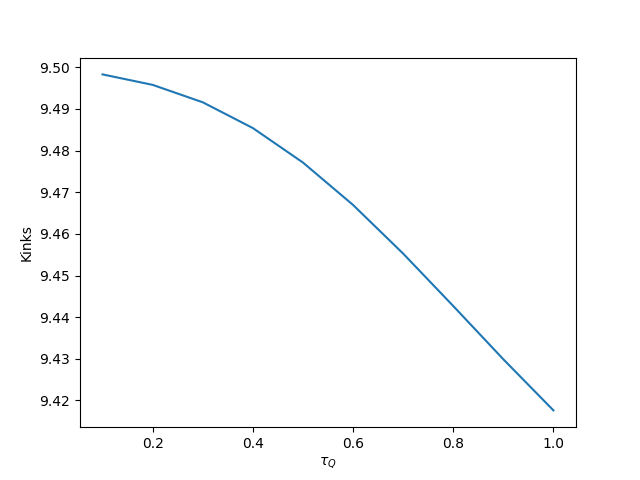
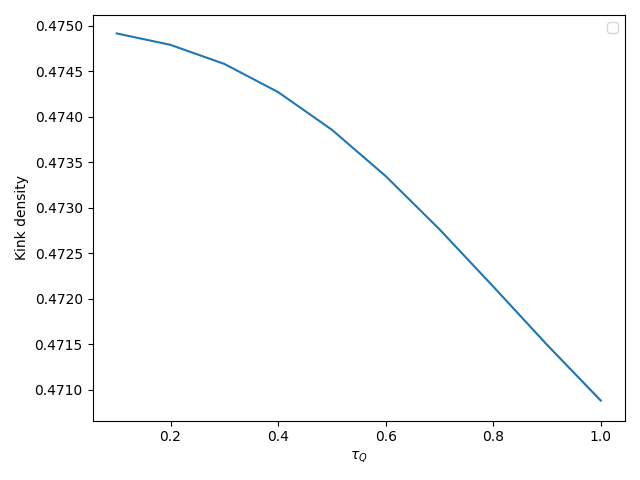
Added kink plotting and changed to kink density

diff --git a/src/dynamics.py b/src/dynamics.py
@@ -2,16 +2,9 @@ import numpy as np
 
 from src.IsingEvolution import IsingEvol
 import matplotlib.pyplot as plt
+from scipy.optimize import curve_fit
 import tqdm
 import pickle
-
-N_ = 20
-trotter_steps_ = 10
-J_ = -0.25
-h_ = -1.5
-dt_ = 0.1  # time step
-obs_Z_ = [5, 6]
-obs_XX_ = [[4, 14], [5, 6]]
 
 
 def evolve_system(N, dt, h, J, trotter_steps, obs_Z, obs_XX, linear_increase=True):
@@ -26,34 +19,68 @@ def estimate_kinks_tau_dependency(N, dt, h, J, trotter_steps):
     ising_model_evolution = IsingEvol(N, dt, h, J)
     ising_model_evolution.progress = False
     tau = []
-    kinks_mean = []
-    kinks_sig = []
+    kdens_mean = []
+    kdens_sig = []
 
     for step in tqdm.tqdm(range(1, trotter_steps + 1)):
         tau.append(dt * step)
         ising_model_evolution.execute(draw=False, steps=step)
         ising_model_evolution.compute_kink_density()
-        kinks_mean.append(ising_model_evolution.nok[0])
-        kinks_sig.append(ising_model_evolution.nok[1])
-
-    plt.plot(np.array(tau), np.array(kinks_mean))
-    plt.xlabel('$\\tau_Q$')
-    plt.ylabel('Kinks')
+        kdens_mean.append(ising_model_evolution.nok[0])
+        kdens_sig.append(ising_model_evolution.nok[1])
 
     filename = f'kinks_N{N}_J{J}_h{h}_dt{dt}_steps{trotter_steps}'
-    plt.savefig("../figs/" + filename + ".png")
+    plot_dependency(filename, np.array(tau), np.array(kdens_mean), np.array(kdens_sig))
+    things_to_save = [tau, kdens_mean, kdens_sig]
 
-    things_to_save = [tau, kinks_mean, kinks_sig]
     with open("../data/" + filename, "wb") as f:
         pickle.dump(things_to_save, f)
+
+
+def plot_dependency(filename, tau, kdens_mean, kdens_sig, plot_fit=False, a=0, e=0, c=0):
+    plt.plot(tau, kdens_mean)
+    if plot_fit:
+        plt.plot(tau, kink_density_theory(tau, a, e, c), label=f"a={round(a, 2)}, e={round(e, 2)}, c={round(c, 2)}")
+
+    plt.fill_between(tau, kdens_mean - kdens_sig, kdens_mean + kdens_sig, alpha=0.2)
+    plt.xlabel('$\\tau_Q$')
+    plt.ylabel('Kink density')
+    # plt.yscale("log")
+    # plt.xscale("log")
+    plt.legend()
+    plt.tight_layout()
+    plt.savefig("../figs/" + filename + ".png")
+
+
+def kink_density_theory(tau, a, e, c):
+    return a * tau ** e + c
+
+
+def fit_kinks(tau, kinks, kinks_sigma):
+    return curve_fit(kink_density_theory, tau, kinks, sigma=kinks_sigma)
 
 
 def load_file(filename):
     with open(filename, "rb") as f:
         things_to_load = pickle.load(f)
 
-    [tau, kinks_mean, kinks_sig] = things_to_load
-    return tau, kinks_mean, kinks_sig
+    [tau, kdens_mean, kdens_sig] = things_to_load
+    return tau, kdens_mean, kdens_sig
 
 
-estimate_kinks_tau_dependency(N_, dt_, h_, J_, trotter_steps_)
+N_ = 20
+trotter_steps_ = 100
+J_ = -0.25
+h_ = -0.2
+dt_ = 0.1  # time step
+obs_Z_ = [5, 6]
+obs_XX_ = [[4, 14], [5, 6]]
+data_start = 40
+
+# estimate_kinks_tau_dependency(N_, dt_, h_, J_, trotter_steps_)
+# plot_dependency("../figs/kinks_N20_J-0.25_h-1.5_dt0.1_steps100", tau, kinks_mean, kinks_sig)
+
+tau, kinks_mean, kinks_sig = np.array(load_file("../data/kinks_N20_J-0.25_h-0.2_dt0.1_steps100"))
+popt, pcov = fit_kinks(tau[data_start:], kinks_mean[data_start:], kinks_sig[data_start:] + 1e-15)
+plot_dependency("../figs/kinks_N20_J-0.25_h-0.2_dt0.1_steps100", tau, kinks_mean, kinks_sig, plot_fit=True, a=popt[0],
+                e=popt[1], c=popt[2])

diff --git a/src/IsingEvolution.py b/src/IsingEvolution.py
@@ -93,7 +93,7 @@ class IsingEvol():
         nok = []
         for subset in product(spins, repeat=self.N):
             arr = np.array(subset)
-            nok.append(np.sum(np.abs(arr[0:-1] - arr[1:])))
+            nok.append(np.sum(np.abs(arr[0:-1] - arr[1:])) / self.N)
 
         log.info(f"Computing expectation values for number of kinks")
         exp_kinks = []
